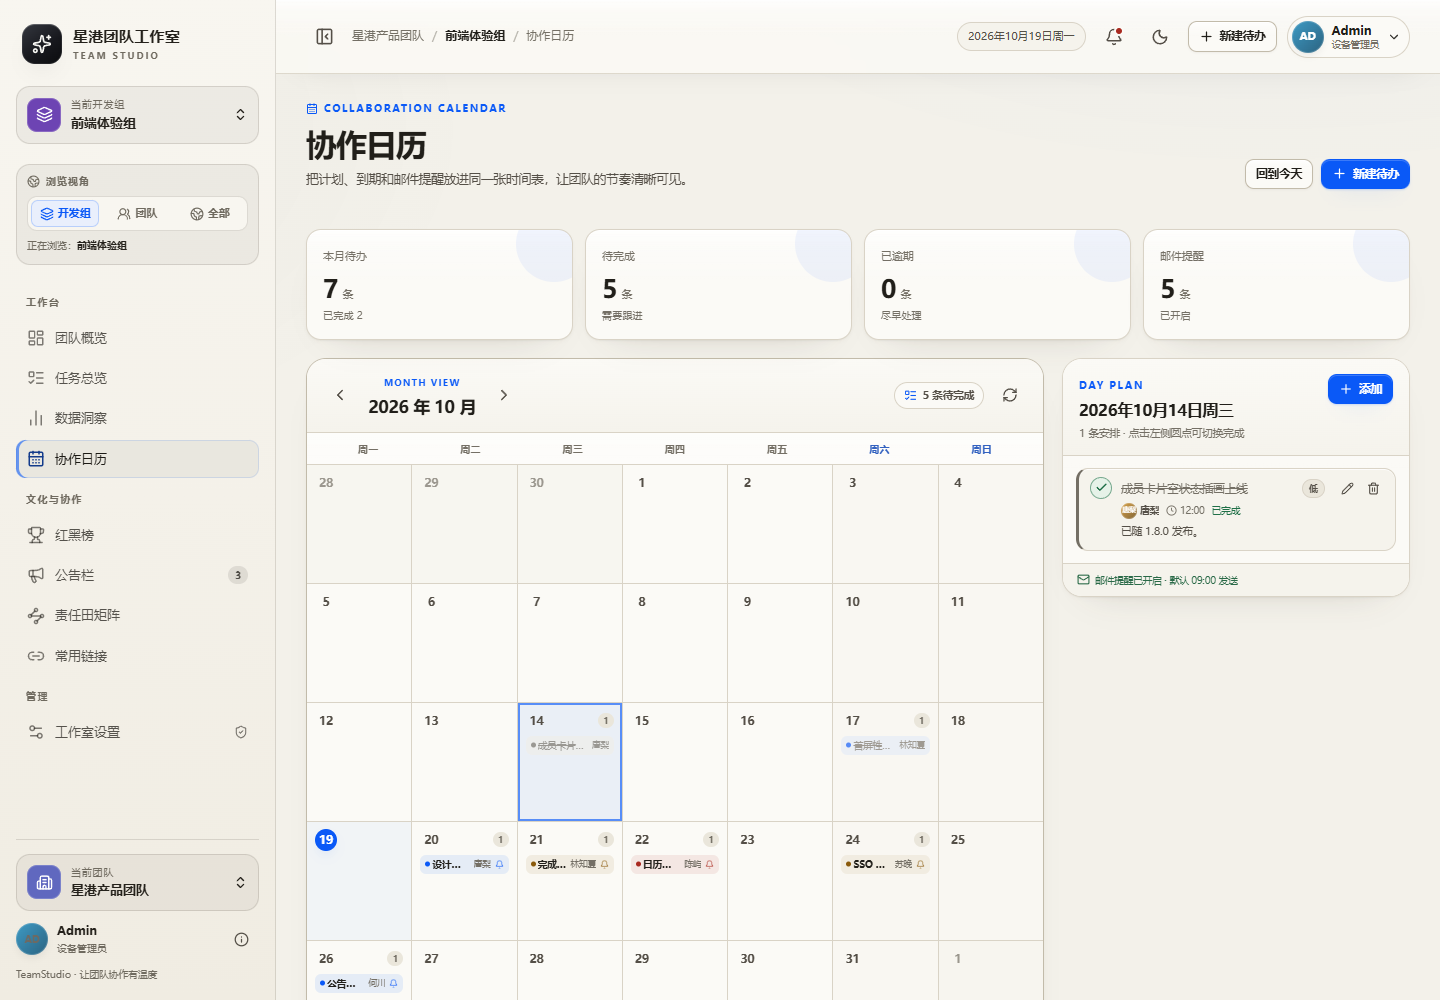
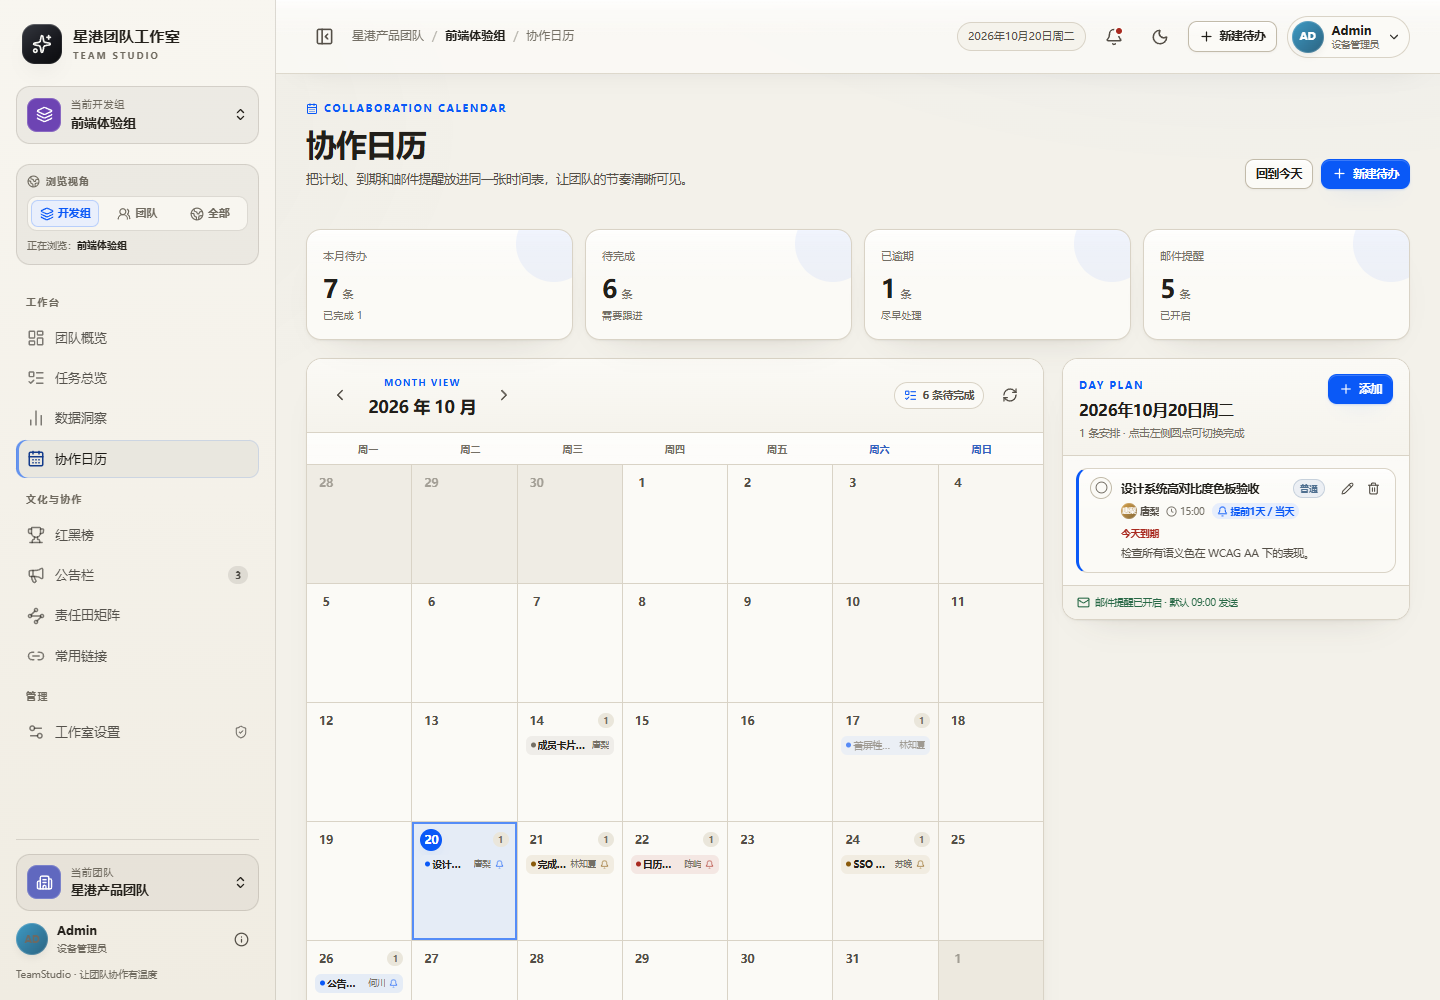
style: deepen light red-black header tints and differentiate out-of-month cells
- red/black board header tints in light theme: 10%->14% red, 6%->9% grey
- calendar out-of-month cells use a dedicated darker tint in both themes, with weekend variant
- refresh calendar/redblack screenshots

diff --git a/web/src/pages/CalendarPage.css b/web/src/pages/CalendarPage.css
@@ -4,6 +4,18 @@
    Uses shared tokens/classes from styles.css.
    ============================================================ */
 
+/* Out-of-month cells are tinted a step darker than the current month so the
+   boundary between months reads immediately in both themes. */
+:root {
+  --cal-outside-bg: color-mix(in srgb, var(--surface-3) 68%, var(--surface));
+  --cal-outside-weekend-bg: color-mix(in srgb, var(--surface-3) 84%, var(--surface));
+}
+
+:root[data-theme="dark"] {
+  --cal-outside-bg: color-mix(in srgb, var(--surface-3) 72%, var(--surface));
+  --cal-outside-weekend-bg: color-mix(in srgb, var(--surface-3) 90%, var(--surface));
+}
+
 .cal-page {
   display: flex;
   flex-direction: column;
@@ -143,16 +155,16 @@
 }
 
 .cal-cell.is-outside {
-  background: color-mix(in srgb, var(--surface-2) 62%, var(--surface));
+  background: var(--cal-outside-bg);
 }
 
 .cal-cell.is-outside .cal-day-number {
   color: var(--text-3);
-  opacity: 0.7;
+  opacity: 0.62;
 }
 
 .cal-cell.is-outside .cal-chip {
-  opacity: 0.55;
+  opacity: 0.5;
 }
 
 .cal-cell.is-weekend {
@@ -160,7 +172,7 @@
 }
 
 .cal-cell.is-weekend.is-outside {
-  background: color-mix(in srgb, var(--surface-2) 74%, var(--surface));
+  background: var(--cal-outside-weekend-bg);
 }
 
 .cal-cell.is-selected {

diff --git a/web/src/pages/RedBlackPage.css b/web/src/pages/RedBlackPage.css
@@ -202,11 +202,11 @@
 /* Column headers use a flat tint: light red for the red board, light grey for
    the black board, with deeper tones in the dark theme. */
 .rb-column-red .rb-column-head {
-  background: color-mix(in srgb, var(--red) 10%, var(--surface));
+  background: color-mix(in srgb, var(--red) 14%, var(--surface));
 }
 
 .rb-column-black .rb-column-head {
-  background: color-mix(in srgb, var(--text) 6%, var(--surface));
+  background: color-mix(in srgb, var(--text) 9%, var(--surface));
 }
 
 :root[data-theme="dark"] .rb-column-red .rb-column-head {
